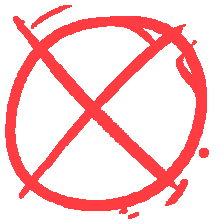
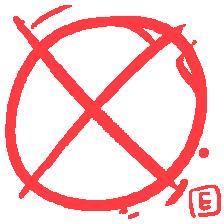
Add boss spawn

Changed region(s): [[0.8438, 0.8125, 1.0, 0.9688]]

diff --git a/src/main.rs b/src/main.rs
@@ -208,12 +208,17 @@ pub fn simulator_step(
 	time: Res<Time>,
 	keyboard_input: Res<Input<KeyCode>>,
 	atlases: Res<Atlases>,
+	asset_server: Res<AssetServer>,
 ) {
 	let player_trans = player.single().translation.truncate();
 	let player_pos = position_to_tile_position(&player_trans);
 	timer.0.tick(time.delta());
 	if keyboard_input.just_pressed(KeyCode::E) {
-		if simulator.grid.campfires.contains(&player_pos) {
+		// Spawn boss if close to boss spawner
+		let boss_room_loc = simulator.boss_room_loc();
+		if boss_room_loc.as_vec2().distance(player_pos.as_vec2()) < 5. {
+			spawn_boss(&mut commands, &asset_server, _tile_position_to_position(&boss_room_loc))
+		} else if simulator.grid.campfires.contains(&player_pos) {
 			simulator.remove_campfire(player_pos);
 			for (e, t) in structures.iter() {
 				let structure_trans = t.translation.truncate();

diff --git a/src/tiles.rs b/src/tiles.rs
@@ -53,7 +53,7 @@ impl Default for TileManager {
 pub fn position_to_tile_position(position: &Vec2) -> UVec2 {
 	(*position / Vec2::splat(TILE_SIZE)).round().as_uvec2()
 }
-fn _tile_position_to_position(tile_position: &UVec2) -> Vec2 {
+pub fn _tile_position_to_position(tile_position: &UVec2) -> Vec2 {
 	Vec2::new(tile_position.x as f32 * TILE_SIZE, tile_position.y as f32 * TILE_SIZE)
 }
 pub fn spawn_tile(
